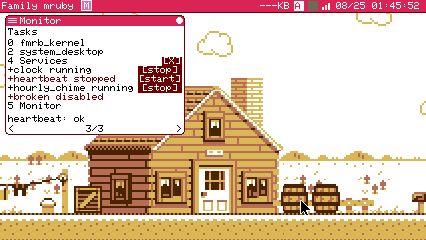
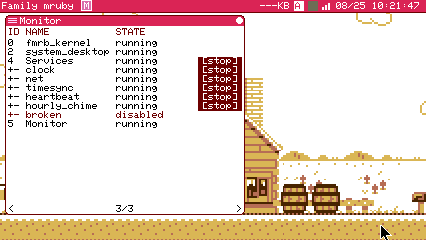
monitor: one table on the task page, not two lists stacked
The services were added to this page as their own kind of row, and it showed:
a task read "4 Services" with a 20px [X] on the right, a service read
"+clock running" with a 44px [stop] in a different column. Two lists that
happened to be stacked rather than one table.

They are now the same row -- id, name, state, and a button in one column --
with a heading over it. A task puts its pid in the id column and a service
puts "+-" there, so the names sit under each other and the tree still reads;
the states line up because they are a column rather than something appended
to the name. The task states use the same words the shell's ps prints, which
is also what the services answer with, so a state means one thing wherever it
is read.

One vocabulary for the buttons too: [stop] for anything running, [start] for
a service that is not. A task still asks twice, because ending an app can
lose unsaved work and a stray click after a page turn must not do it -- but
the confirmation now says [sure?] instead of a bare [?].

And the page was cut off at the bottom. Eight rows fitted in the old 180x120
window, while the list can be nine tasks and six services; the surplus simply
fell off. The window is 240x200, which holds seventeen rows -- more than the
list can be -- and the width is what squares the columns off. Should a row
still not fit, the last line says how many are missing rather than dropping
them silently.
[…]

diff --git a/main/prebuild_scripts/default_app/monitor.app.rb b/main/prebuild_scripts/default_app/monitor.app.rb
@@ -18,8 +18,26 @@ class MonitorApp < FmrbApp
   HIST_LEN = 30       # 30 samples = 30 seconds at 1 Hz
   NUM_PAGES = 3
   TYPE_USER = 2       # FmrbApp.ps :type of a user task (the only killable one)
+  # The same words the shell's ps prints, so a state means one thing across
+  # both tools -- and the same set the services answer svc/ctl list with.
+  STATE_WORDS = ["free", "init", "running", "suspended", "stopping"].freeze
   ROW_H = 9           # task row pitch on page 3
-  KILL_BTN_W = 3 * CHAR_W + 2
+
+  # One button size and one vocabulary for both kinds of row. A task and a
+  # service are different things, but on this page they are both "something
+  # running that I might want to stop", and giving them [X] and [stop] in two
+  # different columns made the page read as two lists that happened to be
+  # stacked. [sure?] is the widest label and fixes the width.
+  BTN_W = 7 * CHAR_W + 2
+
+  # The row, in character columns:
+  #   id(2) name(14) state(9) err(3)
+  # A task puts its pid in the id column, a service puts a "+-" there, so the
+  # names line up under each other and the states form one column.
+  COL_ID_CHARS = 2
+  COL_NAME_CHARS = 14
+  COL_STATE_CHARS = 9
+  COL_ERR_CHARS = 3
   # One kill button per possible task, built once in on_create and shown or
   # hidden as the list changes -- rows must never build widgets, or the page
   # would allocate every second. FMRB_MAX_APPS (9) is not exported to Ruby;
@@ -35,10 +53,7 @@ class MonitorApp < FmrbApp
   # The host's task name, and where requests and answers go.
   SVC_HOST_NAME = "Services"
   SVC_CTL_TOPIC = "svc/ctl"
-  # "[start]" is the widest label, and it fixes the column: with the monitor's
-  # 180px window that leaves 21 characters for the row text, which is why the
-  # child rows are indented by one character and not three.
-  SVC_BTN_W = 7 * CHAR_W + 2
+
 
   # Page colours from the system theme ([theme] in system_conf.toml): the
   # monitor is a tool window, so it reads like the rest of the desktop.
@@ -86,7 +101,7 @@ class MonitorApp < FmrbApp
     # a first click armed, and the last word from the kernel. @task_sig is
     # what the page looked like when it was last drawn; while it is unchanged
     # the page paints nothing at all.
-    @kill_btn_x = @content_x + @content_w - KILL_BTN_W
+    @btn_x = @content_x + @content_w - BTN_W
     @kill_armed_pid = nil
     @kill_msg = nil
     @task_sig = nil
@@ -115,20 +130,19 @@ class MonitorApp < FmrbApp
     fit = KILL_IDS.size if fit > KILL_IDS.size
     fit = 0 if fit < 0
     @max_rows = fit
-    rel_x = @kill_btn_x - @user_area_x0
+    rel_x = @btn_x - @user_area_x0
     i = 0
     while i < @max_rows
       rel_y = @rows_y0 + i * ROW_H - @user_area_y0
-      b = @ui.button(KILL_IDS[i], rel_x, rel_y, KILL_BTN_W, ROW_H, "[X]")
+      b = @ui.button(KILL_IDS[i], rel_x, rel_y, BTN_W, ROW_H, "[stop]")
       b.visible = false
       b.dirty = false
       @row_pids << nil
       i += 1
     end
-    svc_x = @content_x + @content_w - SVC_BTN_W - @user_area_x0
     i = 0
     while i < SVC_IDS.size
-      b = @ui.button(SVC_IDS[i], svc_x, @rows_y0 - @user_area_y0, SVC_BTN_W,
+      b = @ui.button(SVC_IDS[i], rel_x, @rows_y0 - @user_area_y0, BTN_W,
                      ROW_H, "[stop]")
       b.visible = false
       b.dirty = false
@@ -136,6 +150,26 @@ class MonitorApp < FmrbApp
       i += 1
     end
     nil
+  end
+
+  # One row, both kinds. +id+ is the pid for a task and "+-" for a service, so
+  # the names and the states each line up in one column whichever kind the row
+  # is. +err+ is blank unless a service has errors to report.
+  def draw_row(id, name, state, err, y, dim)
+    text = "#{pad(id, COL_ID_CHARS)} #{pad(name, COL_NAME_CHARS)} " \
+           "#{pad(state, COL_STATE_CHARS)} #{pad(err, COL_ERR_CHARS)}"
+    @gfx.draw_text(@content_x, y, text, dim ? COLOR_DIM : COLOR_TEXT, COLOR_BG)
+    nil
+  end
+
+  # Left-align in a fixed width, cutting anything that will not fit. Written
+  # out because picoruby's ljust is Ruby-side and this runs per row.
+  def pad(str, chars)
+    s = str.to_s
+    n = s.length
+    return s[0, chars] if n > chars
+    return s if n == chars
+    s + " " * (chars - n)
   end
 
   def on_update
@@ -503,7 +537,9 @@ class MonitorApp < FmrbApp
 
   # Page 3 furniture. The rows themselves are refresh_tasks' business.
   def draw_tasks_heading
-    @gfx.draw_text(@content_x, @user_area_y0 + 2, "Tasks", COLOR_TEXT, COLOR_BG)
+    head = "#{pad("ID", COL_ID_CHARS)} #{pad("NAME", COL_NAME_CHARS)} " \
+           "#{pad("STATE", COL_STATE_CHARS)}"
+    @gfx.draw_text(@content_x, @user_area_y0 + 2, head, COLOR_DIM, COLOR_BG)
     nil
   end
 
@@ -525,33 +561,46 @@ class MonitorApp < FmrbApp
     @task_sig = sig
 
     msg_y = @nav_y - CHAR_H - 1
-    label_chars = (@content_w - KILL_BTN_W - 4) / CHAR_W
     # One wipe for the whole row block, so rows that disappeared leave nothing.
     @gfx.fill_rect(@content_x, @rows_y0, @content_w, msg_y - @rows_y0, COLOR_BG)
 
     y = @rows_y0
     row = 0
     svc_row = 0
+    # The last line is kept back for the "more" note, so a list that does not
+    # fit says so instead of being silently cut at the bottom edge.
     y_limit = msg_y - 1
+    last_y = y_limit - ROW_H
+    dropped = 0
     if procs
       i = 0
-      while i < procs.size && y < y_limit
+      while i < procs.size
         p = procs[i]
         pid = p[:id]
         name = (p[:name] || "?").to_s
-        label = "#{pid} #{name}"
-        label = label[0, label_chars] if label.length > label_chars
-        @gfx.draw_text(@content_x, y, label,
-                       p[:state] == 2 ? COLOR_TEXT : COLOR_DIM, COLOR_BG)
+        is_host = name == SVC_HOST_NAME
+        svc_here = is_host ? @svcs.size : 0
+
+        if y > last_y
+          # No room for this row or anything under it.
+          dropped += 1 + svc_here
+          i += 1
+          next
+        end
+
+        draw_row(pid, name, STATE_WORDS[p[:state]] || "?", "", y,
+                 p[:state] != 2)
 
         # The shell and the monitor are user tasks too; the kernel refuses to
         # end the one that asked, so the monitor's own row gets no button.
         if p[:type] == TYPE_USER && pid != my_pid && row < @max_rows
           id = KILL_IDS[row]
           @row_pids[row] = pid
-          @ui.set_text(id, @kill_armed_pid == pid ? "[?]" : "[X]")
-          @ui.move(id, @kill_btn_x - @user_area_x0, y - @user_area_y0,
-                   KILL_BTN_W, ROW_H)
+          # Two clicks, not one -- ending an app can lose unsaved work, and a
+          # stray click a second after a page turn must not do it. The armed
+          # state says so in words now; it used to be a bare [?].
+          @ui.set_text(id, @kill_armed_pid == pid ? "[sure?]" : "[stop]")
+          @ui.move(id, @btn_x - @user_area_x0, y - @user_area_y0, BTN_W, ROW_H)
           @ui.set_visible(id, true)
           row += 1
         end
@@ -559,14 +608,22 @@ class MonitorApp < FmrbApp
         i += 1
 
         # The services inside the host, as child rows directly under it.
-        next unless name == SVC_HOST_NAME
+        next unless is_host
         j = 0
-        while j < @svcs.size && svc_row < SVC_IDS.size && y < y_limit
+        while j < @svcs.size
+          if svc_row >= SVC_IDS.size || y > last_y
+            dropped += @svcs.size - j
+            break
+          end
           svc_row = draw_svc_row(@svcs[j], y, svc_row)
           y += ROW_H
           j += 1
         end
       end
+    end
+
+    if dropped > 0
+      @gfx.draw_text(@content_x, y, "... #{dropped} more", COLOR_DIM, COLOR_BG)
     end
 
     # Buttons past the end of the list go away; their holes are painted with
@@ -595,19 +652,15 @@ class MonitorApp < FmrbApp
     nil
   end
 
-  # One service, indented under the host. The text is built to fit the column
-  # the button leaves (see SVC_BTN_W): the error count is only shown when
-  # there is one, because the common row is already at the limit.
+  # One service, in the same columns as a task: "+-" where a task shows its
+  # pid, so the names sit under each other and the tree reads at a glance.
+  # The error count only appears when there is one.
   def draw_svc_row(svc, y, svc_row)
     name = svc["name"].to_s
     state = svc["state"].to_s
     errors = svc["errors"].to_i
-    text = "+#{name} #{state}"
-    text = "#{text} e#{errors}" if errors > 0
-    chars = (@content_w - SVC_BTN_W - 4) / CHAR_W
-    text = text[0, chars] if text.length > chars
-    @gfx.draw_text(@content_x, y, text,
-                   state == "running" ? COLOR_TEXT : COLOR_DIM, COLOR_BG)
+    draw_row("+-", name, state, errors > 0 ? "e#{errors}" : "", y,
+             state != "running")
     id = SVC_IDS[svc_row]
     @svc_names[svc_row] = name
     # A disabled service is not started from here: switching it back on is a
@@ -616,8 +669,7 @@ class MonitorApp < FmrbApp
       @ui.set_visible(id, false)
     else
       @ui.set_text(id, state == "running" ? "[stop]" : "[start]")
-      @ui.move(id, @content_x + @content_w - SVC_BTN_W - @user_area_x0,
-               y - @user_area_y0, SVC_BTN_W, ROW_H)
+      @ui.move(id, @btn_x - @user_area_x0, y - @user_area_y0, BTN_W, ROW_H)
       @ui.set_visible(id, true)
     end
     svc_row + 1

diff --git a/main/app/fmrb_app_spawner.c b/main/app/fmrb_app_spawner.c
@@ -254,8 +254,13 @@ static const builtin_app_entry_t builtin_app_table[] = {
         .flags = FMRB_SHELL_APP_TASK_FLAGS,
         .core_affinity = -1,
         .headless = false,
-        .window_width = 180,
-        .window_height = 120,
+        // 180x120 fitted eight rows, and the task page now lists the services
+        // inside the host as well as the tasks -- nine tasks and six services
+        // is more than that, and the surplus fell off the bottom. This fits
+        // the whole of both lists, and the width squares the columns off
+        // (id / name / state / button).
+        .window_width = 240,
+        .window_height = 200,
         .window_pos_x = 5,
         .window_pos_y = 15,
         .rounded_corners = true
